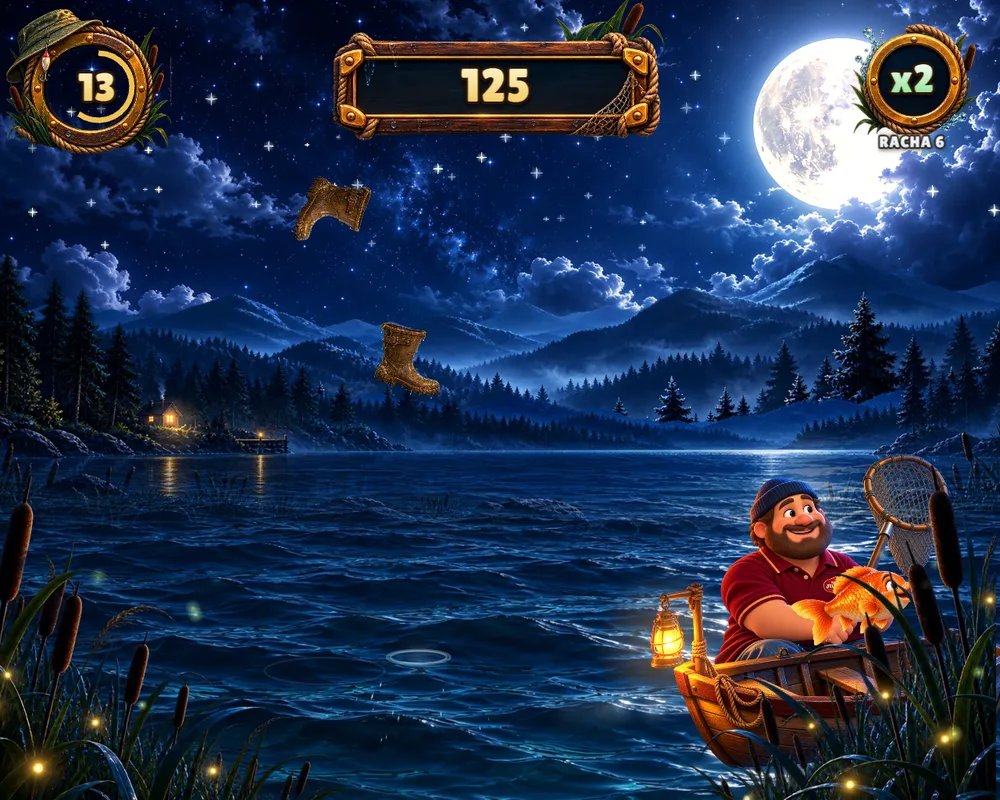
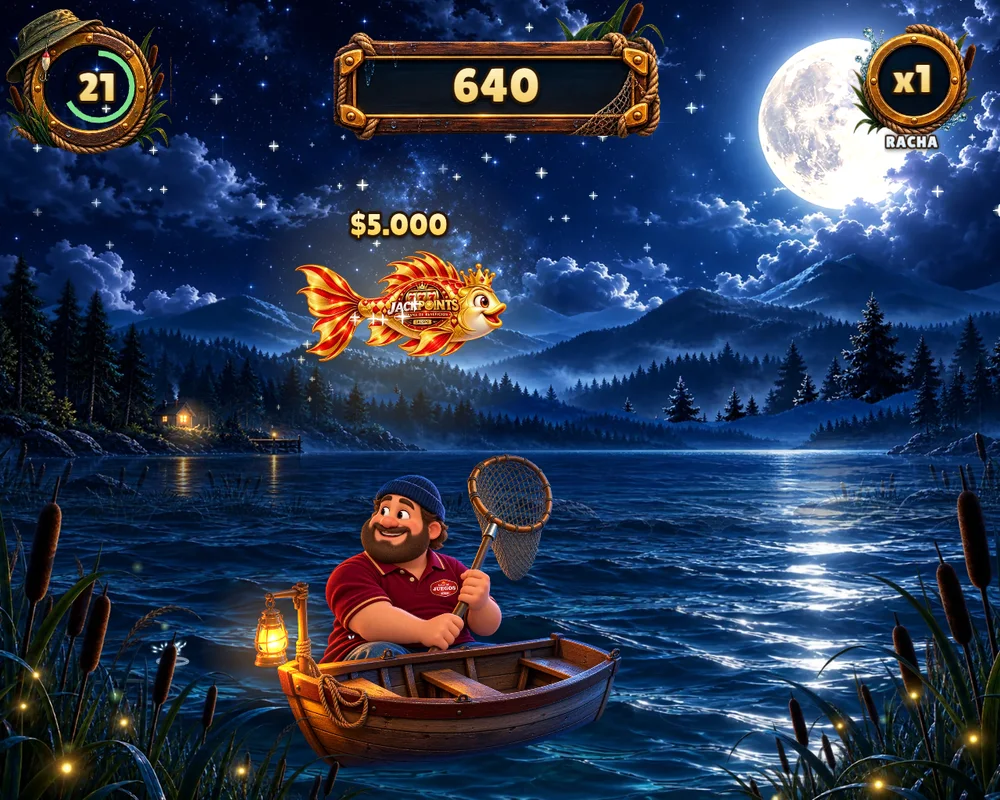
feat(jackpoints-web): the club is live (no more 'Proximamente') + special fish on La Gran Pesca
- Hero badge 'Ya en Sala de Juegos Crespo', closing 'Ya disponible', home teaser 'Ya en la sala'
  (mentions Fortuna Dorada and La Gran Pesca); copy no longer in future tense.
- La Gran Pesca: new screenshot with the $5.000 Jackpoints fish, special fish in the card
  and in the feature list.

diff --git a/src/pages/Jackpoints.jsx b/src/pages/Jackpoints.jsx
@@ -3,7 +3,7 @@ import Footer from '../components/Footer'
 import './Jackpoints.css'
 
 // Landing de Jackpoints: la página completa a la que manda el bloque de la
-// home. Sale como "Próximamente" sin fecha; los números vienen de las bases.
+// home. El club ya está activo en la sala; los números vienen de las bases.
 const NUMEROS = [
   { n: '100', t: 'puntos de bienvenida' },
   { n: '+50', t: 'puntos por cada visita' },
@@ -20,7 +20,7 @@ const PASOS = [
 const BENEFICIOS = [
   { i: 'star', t: 'Puntos por visita', d: '50 puntos cada día que venís, hagas lo que hagas. Constancia que se convierte en consumo.', k: 'Todos los días' },
   { i: 'slot', t: 'Fortuna Dorada', d: 'El slot de la máquina. 3 giros cada 3 horas, con premios de hasta 500 puntos y tickets promocionales de $5.000.', k: 'Cada visita' },
-  { i: 'fish', t: 'La Gran Pesca', d: 'El juego del día: 30 segundos para atrapar peces con la red. Los 3 mejores del día ganan 500, 300 y 200 puntos.', k: 'Nuevo · todos los días' },
+  { i: 'fish', t: 'La Gran Pesca', d: 'El juego del día: 30 segundos para atrapar peces con la red. Los 3 mejores del día ganan 500, 300 y 200 puntos, y si atrapás un pez especial te llevás un ticket de $5.000 o puntos extra.', k: 'Nuevo · todos los días' },
   { i: 'ticket', t: 'Sorteo del mes', d: 'Un cupón por visita para el sorteo mensual de $150.000 en tickets. ¿Querés más chances? Canjeá un pack de 10 cupones por 150 puntos.', k: '$150.000 por mes' },
   { i: 'bag', t: 'Bebidas, comidas y tickets', d: 'Canjeá tus puntos por lo que quieras de la carta o por tickets promocionales para jugar. Cupón en mano, retirás en la barra.', k: 'Con tus puntos' },
   { i: 'trophy', t: 'Torneos de slots', d: 'Anotate a los torneos directamente desde la máquina. Torneos mensuales que clasifican a una Gran Final por $2.000.000 en tickets.', k: 'Gran Final en diciembre' },
@@ -50,11 +50,11 @@ export default function Jackpoints() {
       {/* Hero */}
       <section className="jp__hero">
         <div className="jp__wrap">
-          <span className="jp__badge"><i /> Próximamente en Sala de Juegos Crespo</span>
+          <span className="jp__badge"><i /> Ya en Sala de Juegos Crespo</span>
           <img className="jp__logo" src="/jackpoints/logo.webp" alt="Jackpoints, programa de beneficios, Crespo" />
           <h1 className="jp__h1">Venís, jugás, <em>sumás</em>.</h1>
           <p className="jp__lead">
-            Presentamos <strong>Jackpoints</strong>, el club de beneficios de Sala de Juegos Crespo. Cada visita suma puntos.
+            <strong>Jackpoints</strong> es el club de beneficios de Sala de Juegos Crespo. Cada visita suma puntos.
             Los puntos se canjean por bebidas, comidas y tickets promocionales. Y de paso girás la Fortuna Dorada y competís en La Gran Pesca.
           </p>
           <div className="jp__cta">
@@ -127,6 +127,7 @@ export default function Jackpoints() {
               <li>Dorados y legendarios valen más; la basura resta y corta la racha.</li>
               <li>2 intentos cada 3 horas: cuenta tu mejor pesca del día.</li>
               <li>Los 3 mejores de cada día ganan 500, 300 y 200 puntos.</li>
+              <li>Peces especiales: el pez Jackpoints te da un ticket de $5.000 y los peces de 100 y 50 te dan esos puntos Jackpoints. ¡Si aparece uno, atrapalo!</li>
               <li>El ranking se ve en vivo en la máquina.</li>
             </ul>
           </div>
@@ -167,11 +168,11 @@ export default function Jackpoints() {
       {/* Cierre */}
       <section className="jp__final">
         <div className="jp__wrap">
-          <span className="jp__badge"><i /> Muy pronto</span>
+          <span className="jp__badge"><i /> Ya disponible</span>
           <h2 className="jp__h2">Tu próxima visita ya <span>suma</span></h2>
-          <p className="jp__sub">Jackpoints se activa en la sala. Cuando vengas, buscá la máquina Jackpoints, poné tu DNI y empezá a sumar. Es gratis y tarda menos de un minuto.</p>
+          <p className="jp__sub">Jackpoints ya está en la sala. Cuando vengas, buscá la máquina Jackpoints, poné tu DNI y empezá a sumar. Es gratis y tarda menos de un minuto.</p>
           <div className="jp__cta">
-            <a className="btn-gold" href={IG} target="_blank" rel="noopener noreferrer">Enterate primero en Instagram</a>
+            <a className="btn-gold" href={IG} target="_blank" rel="noopener noreferrer">Seguinos en Instagram</a>
           </div>
           <p className="jp__legal">
             <a href="/legal/bases-jackpoints.html" target="_blank" rel="noopener noreferrer">Bases y condiciones del programa</a> · <a href="/legal/bases-sorteo-jackpoints.html" target="_blank" rel="noopener noreferrer">Bases del sorteo mensual</a> · Solo para mayores de 18 años · Jugá con responsabilidad

diff --git a/src/components/JackpointsTeaser.jsx b/src/components/JackpointsTeaser.jsx
@@ -3,7 +3,7 @@ import { useScrollRevealParent } from '../hooks/useScrollReveal'
 import './JackpointsTeaser.css'
 
 // Bloque corto en la home: lo relevante de Jackpoints en 10 segundos y un
-// botón a la página completa (/jackpoints). Sale como "Próximamente" sin fecha.
+// botón a la página completa (/jackpoints). El club ya está activo en la sala.
 const NUMEROS = [
   { n: '100', t: 'puntos de bienvenida' },
   { n: '+50', t: 'puntos por cada visita' },
@@ -19,12 +19,12 @@ export default function JackpointsTeaser() {
         <div className="reveal jpt__card">
           <div className="jpt__glow" aria-hidden="true" />
           <div className="jpt__inner">
-            <span className="jpt__badge"><i /> Próximamente</span>
+            <span className="jpt__badge"><i /> Ya en la sala</span>
             <img className="jpt__logo" src="/jackpoints/logo.webp" alt="Jackpoints, programa de beneficios de Sala de Juegos Crespo" loading="lazy" />
             <h2 className="section-title jpt__title">Venís, jugás, <em>sumás</em>.</h2>
             <p className="jpt__desc">
               <strong>Jackpoints</strong> es el club de beneficios de Sala de Juegos Crespo. Cada visita suma puntos,
-              los puntos se canjean por bebidas, comidas y tickets promocionales, y de paso girás la Fortuna Dorada.
+              los puntos se canjean por bebidas, comidas y tickets promocionales, y además jugás gratis a Fortuna Dorada y La Gran Pesca.
               Gratis, con tu DNI, en la sala.
             </p>
             <div className="jpt__nums">
